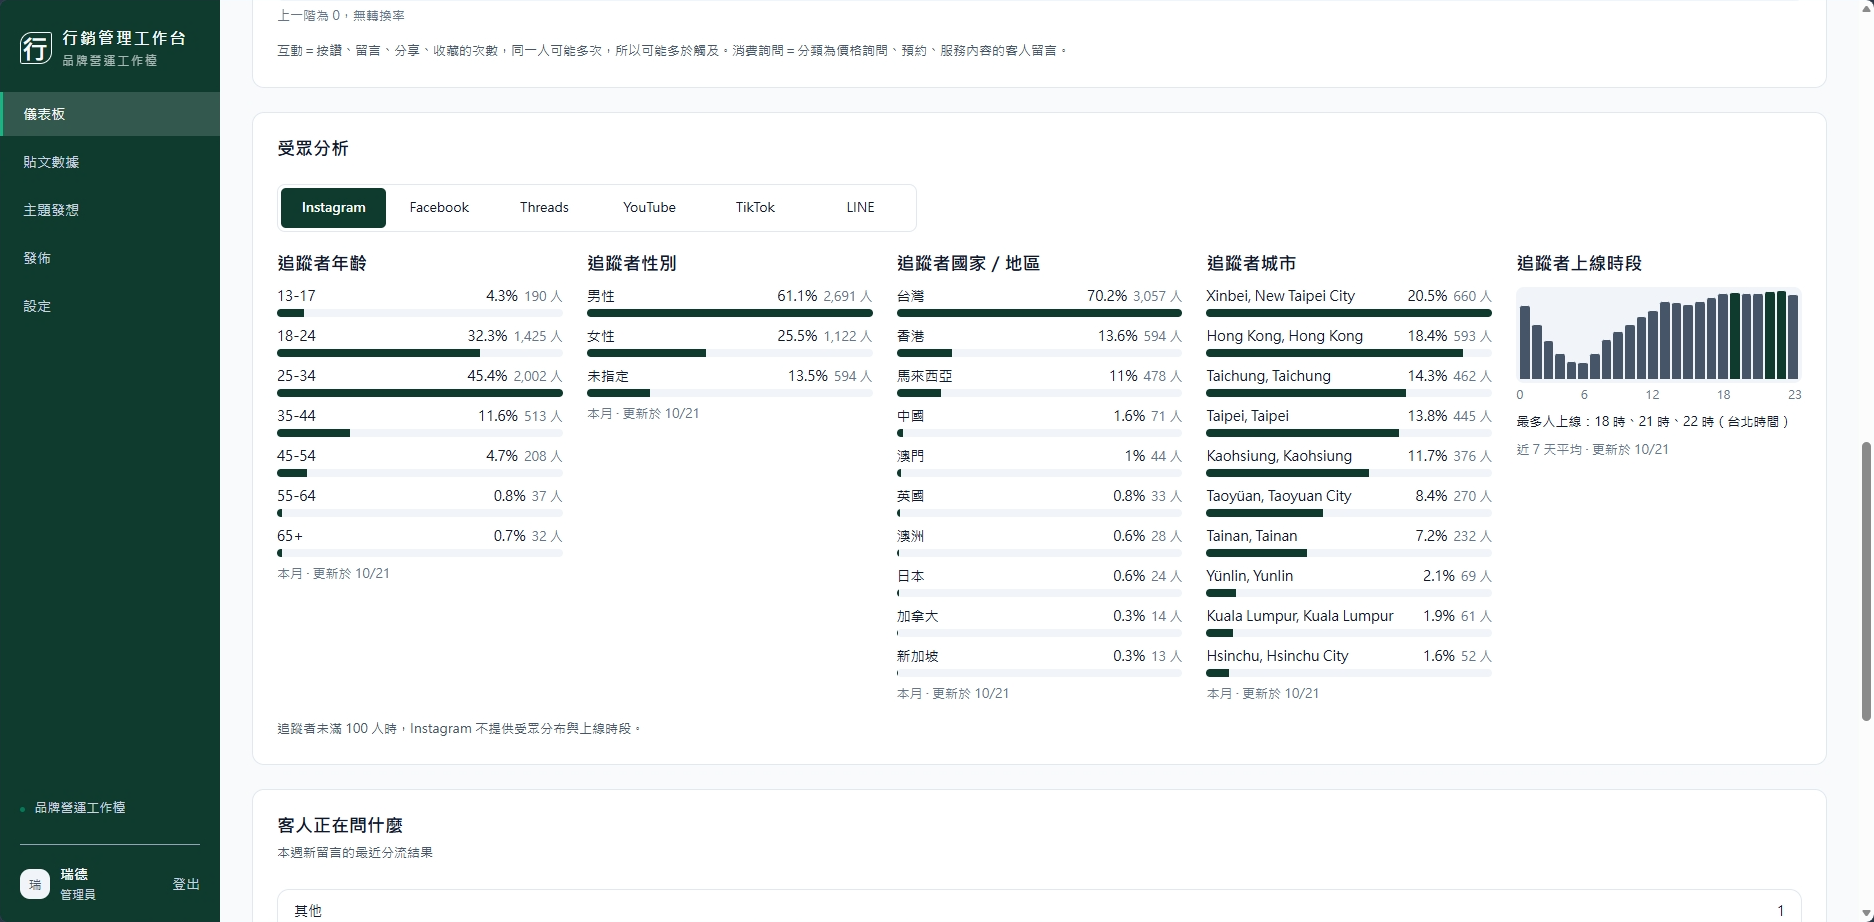
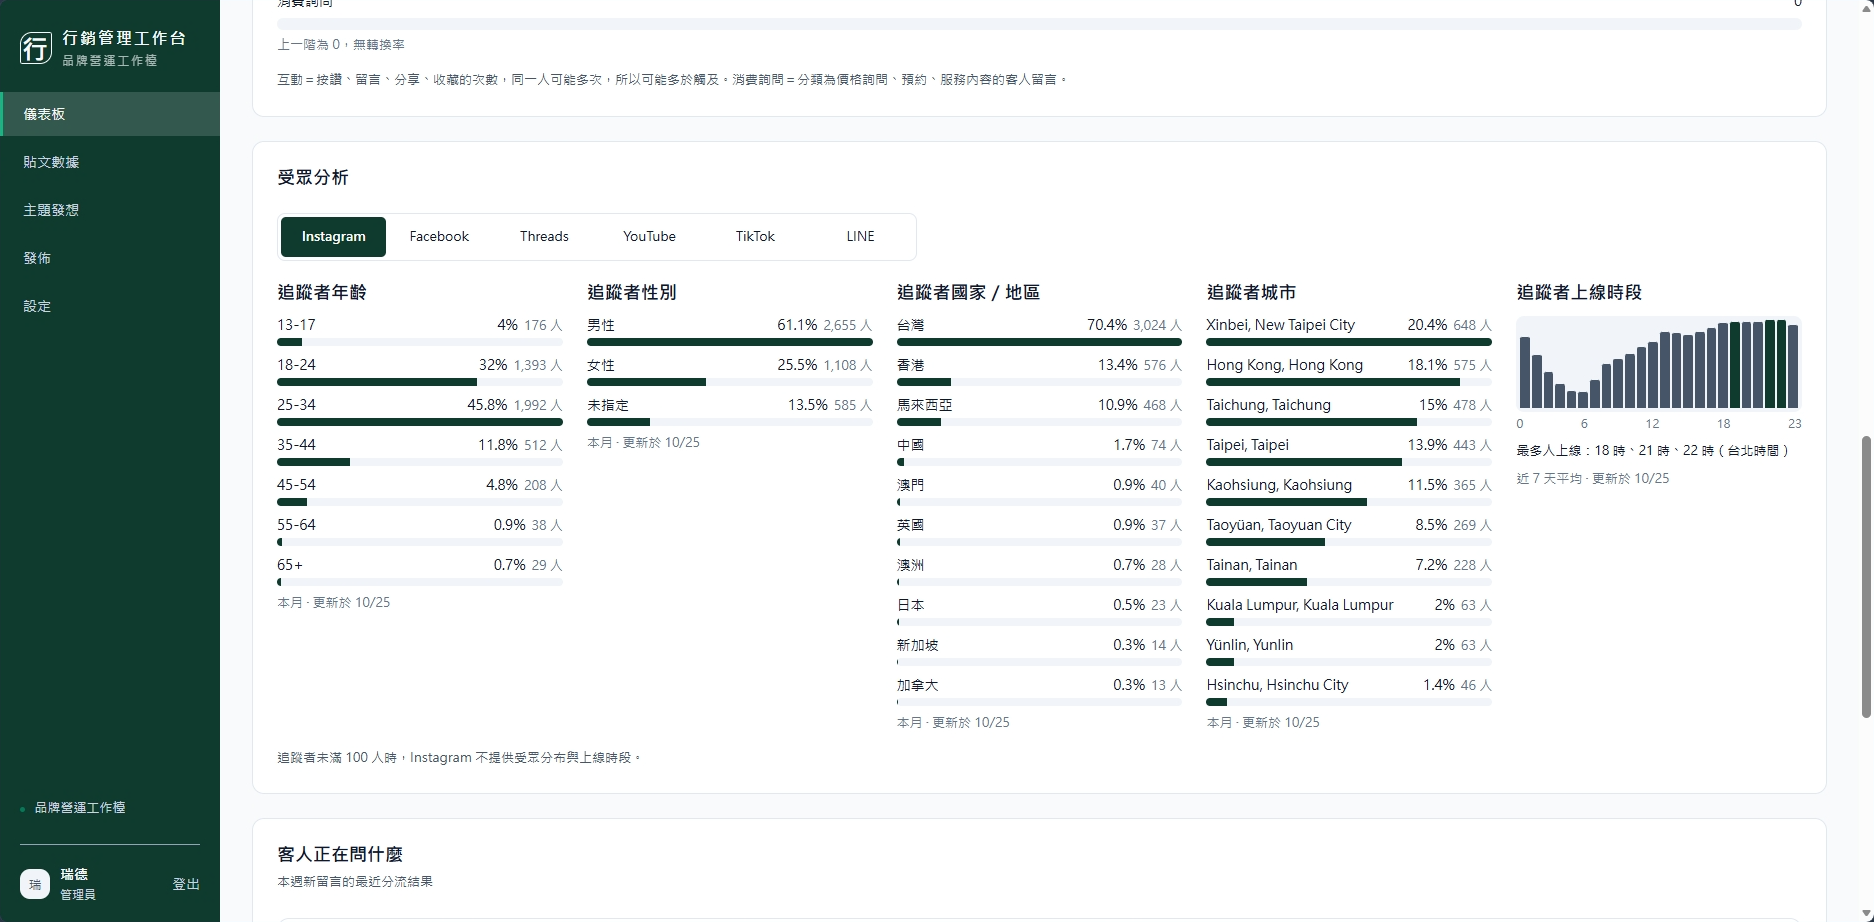
Sync with private master 05847ef

diff --git a/README_en.md b/README_en.md
@@ -18,7 +18,7 @@ A self-hosted marketing workbench for independent creators and their own brand: 
 |---|---|
 | ![Post analytics](docs/images/posts.png) | ![Ideation](docs/images/ideation.png) |
 
-<sub>The dashboard and post analytics screenshots are real screens from the author's own account, ruidefilm; the ideation screenshot uses fictional demo data.</sub>
+<sub>All screenshots are real screens from the author's own account, ruidefilm.</sub>
 
 ## Features
 

diff --git a/README_ja.md b/README_ja.md
@@ -18,7 +18,7 @@
 |---|---|
 | ![投稿データ](docs/images/posts.png) | ![アイデア出し](docs/images/ideation.png) |
 
-<sub>ダッシュボードと投稿データは作者自身のアカウント ruidefilm の実際の画面です。アイデア出しは架空のデモデータです。</sub>
+<sub>スクリーンショットはすべて作者自身のアカウント ruidefilm の実際の画面です。</sub>
 
 ## 主な機能
 

diff --git a/README_zh-CN.md b/README_zh-CN.md
@@ -18,7 +18,7 @@
 |---|---|
 | ![帖子数据](docs/images/posts.png) | ![选题策划](docs/images/ideation.png) |
 
-<sub>仪表盘与帖子数据截图来自作者自己的账号 ruidefilm 的实际画面；选题策划为虚构的示范数据。</sub>
+<sub>截图均来自作者自己的账号 ruidefilm 的实际画面。</sub>
 
 ## 功能特点
 

diff --git a/README.md b/README.md
@@ -18,7 +18,7 @@
 |---|---|
 | ![貼文數據](docs/images/posts.png) | ![主題發想](docs/images/ideation.png) |
 
-<sub>儀表板與貼文數據是作者自己的帳號 ruidefilm 的實際畫面；主題發想是虛構的範例。</sub>
+<sub>截圖都是作者自己的帳號 ruidefilm 的實際畫面。</sub>
 
 ## 功能特色
 
